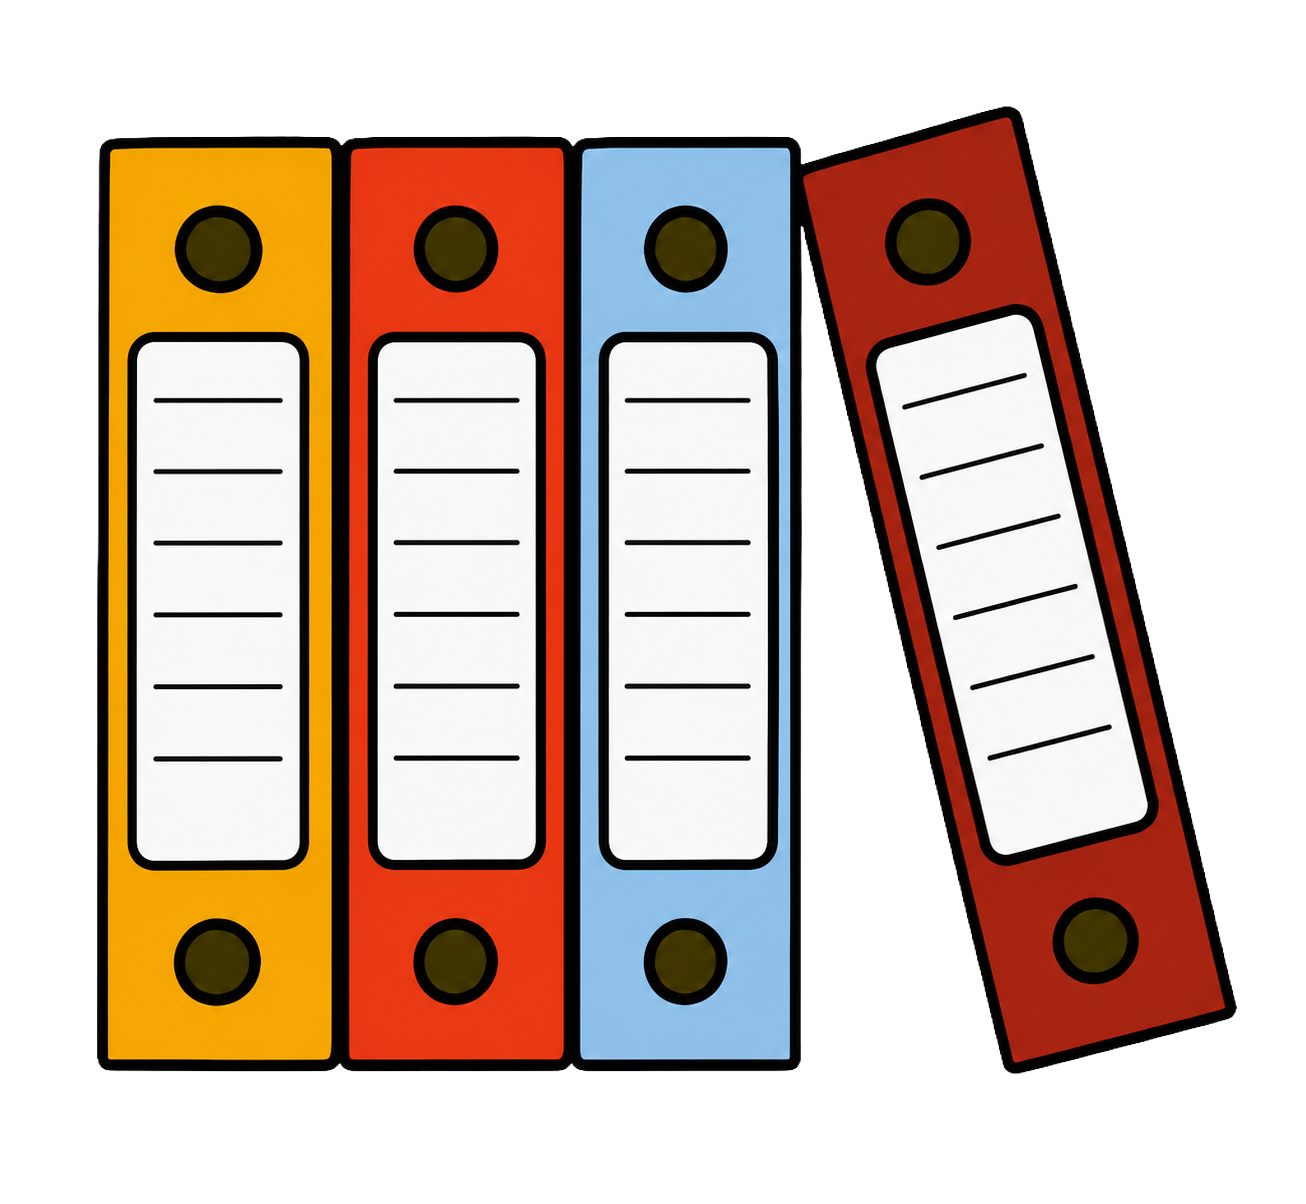
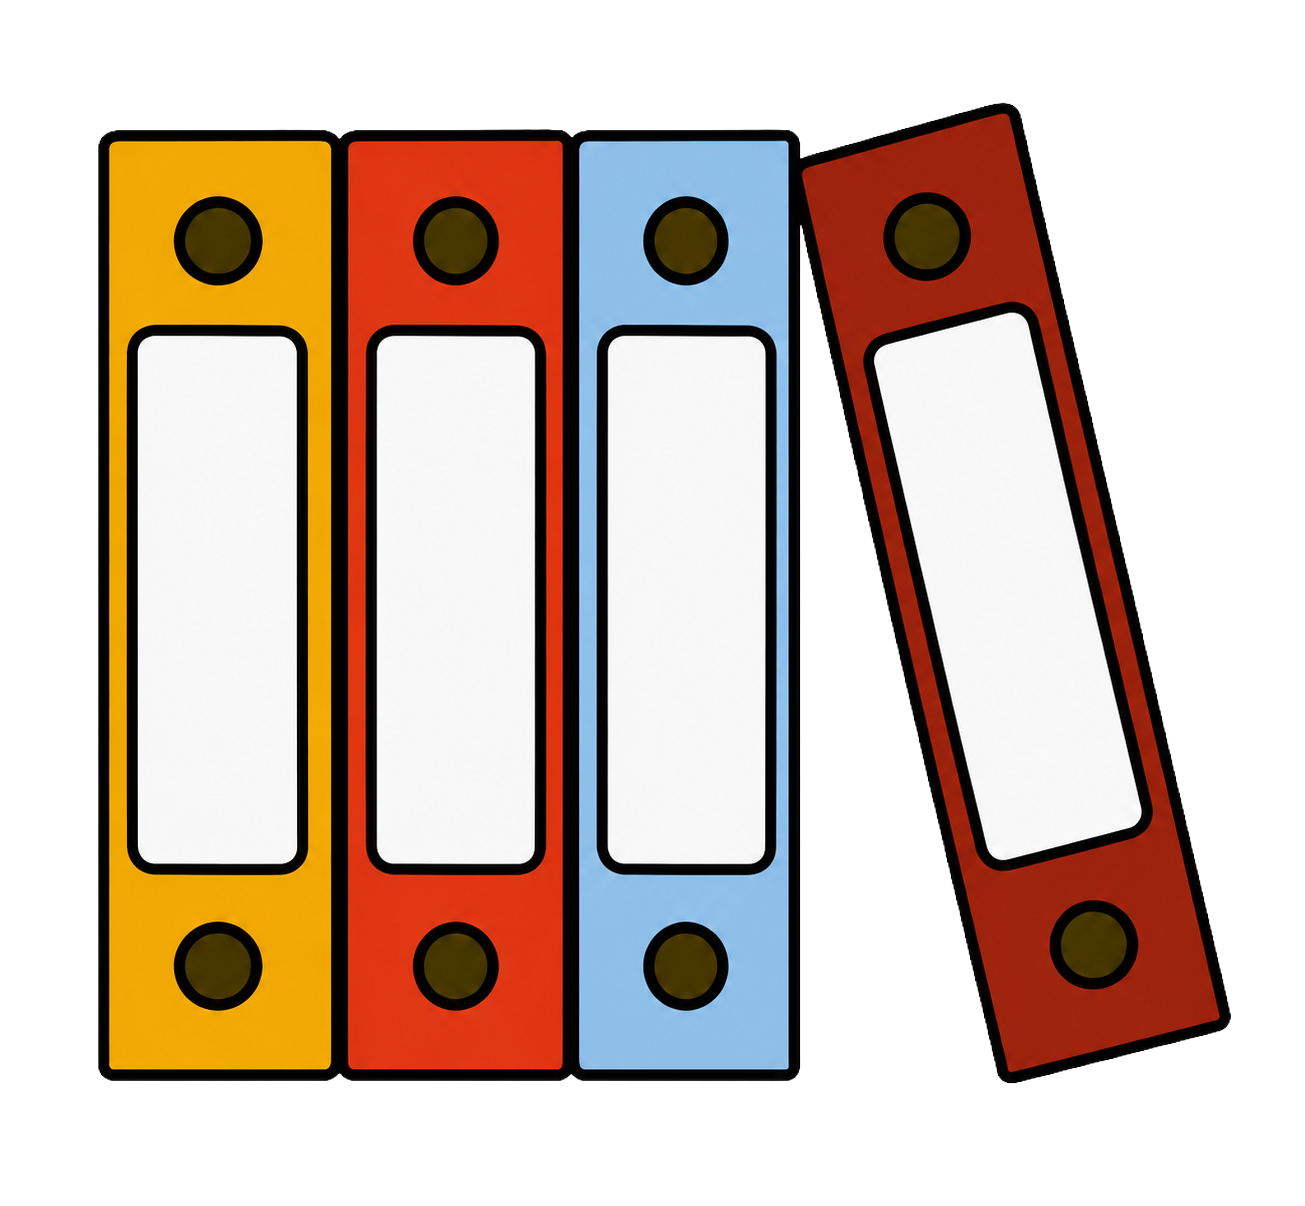
feat: replace work-experience/projects notes with ring-binders and legos imagery
- swap old SVG/note blocks for ring-binders.png and legos.png
- add rotated, bold binder labels for work experience entries
- add tilted/skewed lego labels for project names to mimic sticker-on-block look
- fix Studie4SU/(Team) spacing

diff --git a/css/main.css b/css/main.css
@@ -395,122 +395,108 @@ h2, h3 {
 
 .experience-projects {
   position: relative;
-  display: flex;          /* can stay, won't matter much once children are absolute */
-  justify-content: center;
-  align-items: flex-start;
-  gap: 2rem;
-  flex-wrap: wrap;
-  padding: rem 2rem 4rem;
   background: #ffffff;
-  min-height: 700px;       /* tune this — smallest value that doesn't clip the notes */
+  padding: 4rem 2rem;
+  min-height: 800px;   /* tune once both images are placed */
   overflow: hidden;
 }
 
-.experience-projects__note {
-  position: relative;
-  width: 320px;
-  z-index: 1;
+.experience-projects__title {
+  font-family: 'HalfTermSchoolsOut', sans-serif;
+  font-size: 2rem;
+  text-align: center;
+  margin-bottom: 1.5rem;
 }
 
-.experience-projects__note-bg {
+/* ---------- WORK EXPERIENCE (ring binders, left) ---------- */
+.experience-projects__work {
+  position: absolute;
+  top: 80px;
+  left: 80px;     /* pushes it toward the left edge of the viewport */
+  width: 530px;
+}
+
+.experience-projects__binders {
+  position: relative;
+}
+
+.experience-projects__binders-img {
   width: 100%;
   display: block;
 }
 
-.experience-projects__note-text {
+.experience-projects__binder-label {
   position: absolute;
-  inset: 0;
-  padding: 4rem 2rem;
+  width: 200px;
   font-family: 'HalfTermSchoolsOut', sans-serif;
+  font-size: 1.4rem;
+  line-height: 1.2;
+  text-align: center;
+  color: #111;
+  transform: rotate(-90deg);
+  transform-origin: left center;
+  font-weight: 700;
 }
 
-.experience-projects__note-text h3 {
-  font-family: 'HalfTermSchoolsOut';
-  margin-bottom: 0.5rem;
-}
+/* yellow binder — most recent role */
+.experience-projects__binder-label--1 { top: 330px; left: 100px; }
+/* orange/red binder */
+.experience-projects__binder-label--2 { top: 330px; left: 200px; }
+/* blue binder */
+.experience-projects__binder-label--3 { top: 330px; left: 295px; }
 
-.experience-projects__note-text p {
-  margin-bottom: 0.75rem;
-  line-height: 1.3;
-}
-
-.experience-projects__note-text ul {
-  list-style: none;
-  padding: 0;
-  margin: 0;
-}
-
-.experience-projects__note-text li {
-  margin-bottom: 0.5rem;
-}
-
-.experience-projects__joke {
-  text-decoration: line-through;
-  color: black;
-}
-
-.experience-projects__note--work {
-  position: absolute;      /* was relative */
-  width: 600px;
-  top: 100px;                
-  left: 140px;
-}
-
-.experience-projects__note--projects {
-  position: absolute;      /* was relative */
+/* ---------- PROJECTS (legos, right, slightly lower) ---------- */
+.experience-projects__projects {
+  position: absolute;
+  top: 220px;     /* lower than the binders block, per your request */
+  left: 800px;    /* pushes it toward the right */
   width: 500px;
-  top: 150px;                
-  left: 800px;
 }
 
-.experience-projects__note--work .experience-projects__note-text {
+.experience-projects__legos {
+  position: relative;
+}
+
+.experience-projects__legos-img {
+  width: 100%;
+  display: block;
+}
+
+.experience-projects__lego-label {
   position: absolute;
-  top: 120px;      /* smaller number = higher up */
+  width: 150px;
+  font-family: 'HalfTermSchoolsOut', sans-serif;
+  font-size: 1.2rem;      /* matches binder labels */
+  font-weight: 700;        /* matches binder labels */
+  line-height: 1.2;
+  text-align: center;
+  color: #111;
+}
+
+/* Blue block — top of the stack */
+.experience-projects__lego-label--1 {
+  top: 100px;
+  left: 90px;
+  transform: rotate(10deg) skewY(17deg);
+}
+
+/* Green block — top right */
+.experience-projects__lego-label--2 {
+  top: 155px;
+  left: 250px;
+  transform: rotate(10deg) skewY(17deg);
+}
+/* Red block — front/center, most prominent */
+.experience-projects__lego-label--3 {
+  top: 260px;
   left: 200px;
-  color: black;
 }
-
-.experience-projects__note--projects .experience-projects__note-text {
-  position: absolute;
-  top: 100px;      /* bigger number = lower down, relative to its own note */
-  left: 125px;
-  color: black;
+/* Yellow block — left side */
+.experience-projects__lego-label--4 {
+  top: 190px;
+  left: 85px;
+  transform: rotate(-10deg) skewY(-12deg);
 }
-
-.experience-projects__note--work .experience-projects__note-text p {
-  margin-bottom: 2.7rem;   /* increase this number for more space */
-  font-size: 1.4rem; 
-}
-
-.experience-projects__note--projects .experience-projects__note-text li {
-  margin-bottom: 1.5rem;
-  font-size: 1.4rem; 
-}
-
-.experience-projects__note--work .experience-projects__note-text h3 {
-  position: relative;
-  top: -46px;          /* negative = moves it up, independent of the p tags below */
-  left: 0;
-  font-size: 2rem;  /* bigger than the p/li text */
-  text-decoration: underline;
-}
-
-.experience-projects__note--projects .experience-projects__note-text h3 {
-  position: relative;
-  top: -20px;          /* negative = up, positive = down — independent of work header */
-  left: 0;
-  font-size: 2rem;   /* independent size from work header and from the li text below */
-  text-decoration: underline;
-}
-
-.experience-projects__arrow {
-  position: absolute;
-  top: -40px;
-  left: 100px;          /* LEFT/RIGHT: bigger number = further right, negative = further left */
-  width: 500px;     /* BIGGER/SMALLER: increase this number to make it bigger */
-  z-index: 0;
-}
-
 /* ============================================================
    SKILLS SECTION
    ============================================================ */

diff --git a/index.html b/index.html
@@ -131,30 +131,30 @@
 
     </section>
     <section class="experience-projects">
-      <img src="img/homepage/arrow.png" alt="" class="experience-projects__arrow" />
-      <div class="experience-projects__note experience-projects__note--work">
-        <img src="img/homepage/work-experience.svg" alt="" class="experience-projects__note-bg" />
-        <div class="experience-projects__note-text">
-          <h3>Work Experience</h3>
-          <p>Software Tester — ERP Portal</p>
-          <p>Telesales Specialist — Lean Up IT</p>
-          <p>Klantenservice Medewerker — Concentrix</p>
+
+      <!-- WORK EXPERIENCE — ring binders, left side -->
+      <div class="experience-projects__work">
+        <h3 class="experience-projects__title">My Work Experience</h3>
+        <div class="experience-projects__binders">
+          <img src="img/homepage/ring-binders.png" alt="" class="experience-projects__binders-img" />
+          <p class="experience-projects__binder-label experience-projects__binder-label--1">Software Tester</p>
+          <p class="experience-projects__binder-label experience-projects__binder-label--2">Telesales Specialist</p>
+          <p class="experience-projects__binder-label experience-projects__binder-label--3">Klantenservice Medewerker</p>
         </div>
       </div>
 
-      <div class="experience-projects__note experience-projects__note--projects">
-        <img src="img/homepage/projects-note.png" alt="" class="experience-projects__note-bg" />
-        <div class="experience-projects__note-text">
-          <h3>Projects</h3>
-          <ul>
-            <li>TaskFlow</li>
-            <li>Chronicles of Booksteria</li>
-            <li>Pixel Jumper: Arcade Odyssey</li>
-            <li class="experience-projects__joke">Hack the Government (Team)</li>
-            <li>Studie4SU (Team)</li>
-          </ul>
+      <!-- PROJECTS — legos, right side, slightly lower -->
+      <div class="experience-projects__projects">
+        <h3 class="experience-projects__title">My Projects</h3>
+        <div class="experience-projects__legos">
+          <img src="img/homepage/legos.png" alt="" class="experience-projects__legos-img" />
+          <p class="experience-projects__lego-label experience-projects__lego-label--1">TaskFlow</p>
+          <p class="experience-projects__lego-label experience-projects__lego-label--2">Chronicles of Booksteria</p>
+          <p class="experience-projects__lego-label experience-projects__lego-label--3">Pixel Jumper: Arcade Odyssey</p>
+          <p class="experience-projects__lego-label experience-projects__lego-label--4">Studie4SU&nbsp;&nbsp;&nbsp;&nbsp;&nbsp;&nbsp;&nbsp;&nbsp;&nbsp;&nbsp;&nbsp;&nbsp;(Team)</p>
         </div>
       </div>
+
     </section>
 
     <section class="skills">

diff --git a/contact.html b/contact.html
@@ -152,7 +152,7 @@
 
     <div class="footer__content">
       <a href="https://github.com/Veroush" target="_blank" rel="noopener noreferrer" class="footer__link">
-        <img src="./img/origami_github.png" alt="GitHub" class="footer__icon footer__icon--github" />
+        <img src="./img/origami-github.png" alt="GitHub" class="footer__icon footer__icon--github" />
       </a>
       <a href="https://www.linkedin.com/in/veroushka-ramjiawan-636114392/" target="_blank" rel="noopener noreferrer" class="footer__link">
         <img src="./img/linkedin-icon.png" alt="LinkedIn" class="footer__icon footer__icon--linkedin" />